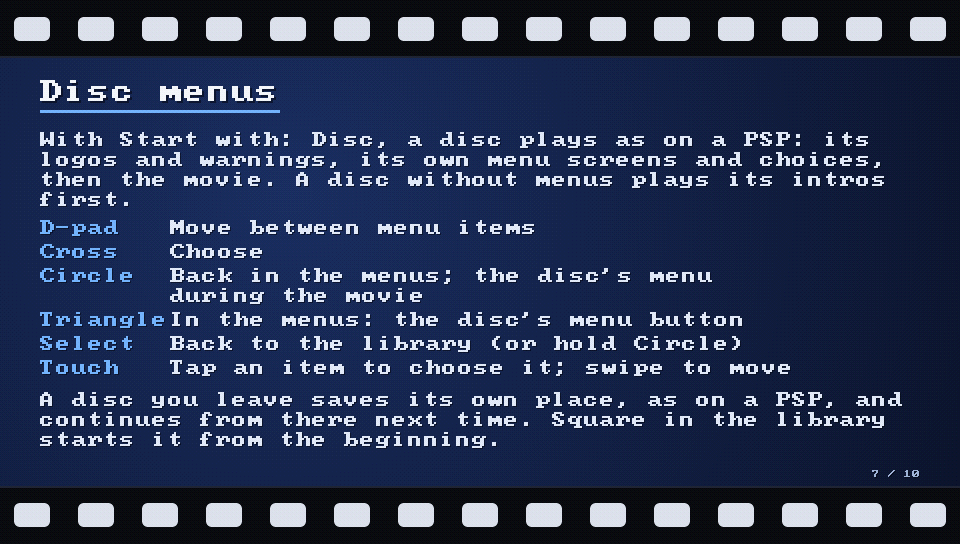
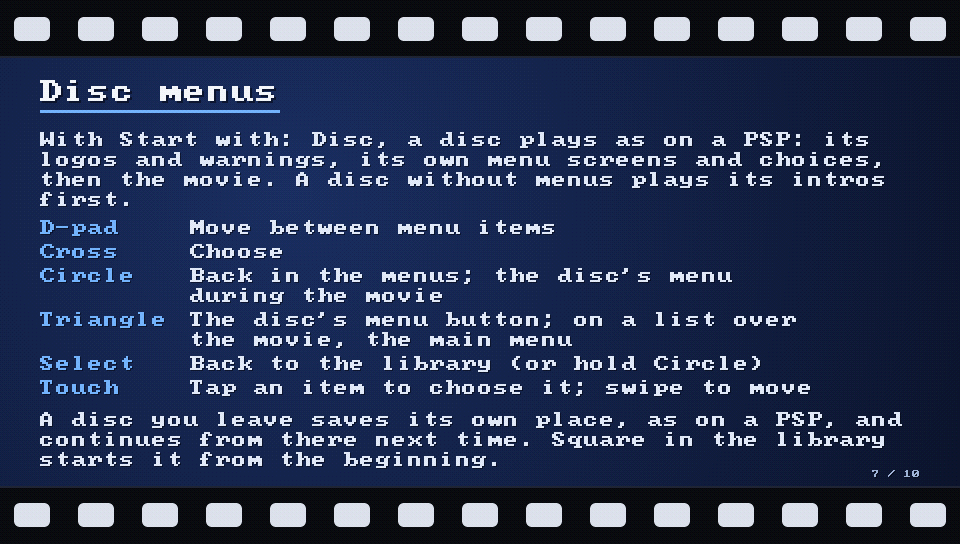
Disc menus: show the menu button over lists that cover the movie
Saw's scene list over the movie hides on Circle and leaves for the main
menu only by the PSP's menu button, which is Triangle while a disc page has
focus. Nothing said so, and Circle alone toggles the list for ever. While
a page takes the buttons over the movie, the disc layer now carries a
"Triangle Disc menu" hint in the corner. The manual and the Vita manual
say the same.

Changed region(s): [[0.0312, 0.4062, 0.9375, 0.875]]

diff --git a/src/app/disc.c b/src/app/disc.c
@@ -7,6 +7,7 @@
 #include "../core/canvas.h"
 #include "../core/iso9660.h"
 #include "../platform/platform.h"
+#include "osd.h"
 #include "menu.h"
 #include "player.h"
 #include "resume.h"
@@ -37,6 +38,7 @@ struct disc {
     canvas layer;
     uint32_t layer_id;
     int layer_shown;          /* the menus have something on screen */
+    int hint_shown;           /* the layer carries the "△ Disc menu" hint */
     uint32_t presented;       /* layer_id last presented without a player */
     uint64_t circle_since;
     int menus_ended;          /* controller.end: the disc finished, nothing to continue */
@@ -349,10 +351,21 @@ int disc_update(disc *d, uint32_t pressed)
     }
     /* The menu layer before the player draws, so a frame never shows with the last frame's
        layer (it decides between Fit and the user's screen mode). */
-    if (menu_dirty(d->m)) {
-        menu_draw(d->m, &d->layer);
-        d->layer_shown = layer_has_pixels(&d->layer);
-        d->layer_id++;
+    {
+        /* A page that takes the buttons over the movie (Saw's scene list): its Back may only
+           hide it, and the way on is the PSP's menu button, so say which button that is. */
+        int hint = d->pl && !d->menu_video && !player_title_ended(d->pl) && menu_has_focus(d->m);
+        if (menu_dirty(d->m) || hint != d->hint_shown) {
+            menu_draw(d->m, &d->layer);
+            d->layer_shown = layer_has_pixels(&d->layer);
+            if (hint) {
+                canvas_rect(&d->layer, 16, LAYER_H - 48, 150, 32, RGBA(10, 14, 28, 190));
+                osd_draw_hint(&d->layer, 24, LAYER_H - 40, ICON_BUTTON_TRIANGLE, "Disc menu");
+                d->layer_shown = 1;
+            }
+            d->hint_shown = hint;
+            d->layer_id++;
+        }
     }
     if (d->pl)
         player_set_layer(d->pl, d->layer_shown ? d->layer.rgba : NULL, d->layer.w, d->layer.h, d->layer.stride,

diff --git a/tools/make_manual.py b/tools/make_manual.py
@@ -199,9 +199,9 @@ def main():
            'screens and choices, then the movie. A disc without menus plays its intros first.')
     p.rows([('D-pad', 'Move between menu items'), ('Cross', 'Choose'),
             ('Circle', 'Back in the menus; the disc\'s menu during the movie'),
-            ('Triangle', 'In the menus: the disc\'s menu button'),
+            ('Triangle', 'The disc\'s menu button; on a list over the movie, the main menu'),
             ('Select', 'Back to the library (or hold Circle)'),
-            ('Touch', 'Tap an item to choose it; swipe to move')], key_w=130)
+            ('Touch', 'Tap an item to choose it; swipe to move')], key_w=150)
     p.y += 8
     p.para('A disc you leave saves its own place, as on a PSP, and continues from there next time. '
            'Square in the library starts it from the beginning.')

diff --git a/docs/manual.md b/docs/manual.md
@@ -107,6 +107,8 @@ With "Start with: Disc", UMD Player runs the disc's own menus: the menu screens,
 
 Some discs move their highlight themselves and have no items to tap. On those, swipe to the item, then tap anywhere to choose it.
 
+Some discs show a list over the movie, such as Saw's scene list, where ○ only hides the list. The corner then shows "△ Disc menu": △ leaves the movie for the disc's main menu.
+
 Holding ○ for 1.5 seconds also goes back to the library.
 
 When you leave a disc, it saves its own place, as on a PSP. The next time, the disc continues from there. Some discs ask first. In the library, the Select panel says "Continue where you left off", and □ starts the disc from the beginning instead.

diff --git a/CHANGELOG.md b/CHANGELOG.md
@@ -2,6 +2,7 @@
 
 ## Unreleased
 
+- Disc menus: a list shown over the movie (Saw's scene list) shows "△ Disc menu" in the corner. On such lists ○ only hides the list, and △, the PSP's menu button, is the way back to the main menu.
 - Disc menus receive the discs' event marks (movieplayer.onMark). Doom's menus waited for one after a blank opening clip and never appeared; they now show the warnings, then the main menu. Event marks no longer count as chapters, so movies such as Cabin Fever, Doom and 2 Fast 2 Furious lose a duplicate last chapter.
 
 ## v0.6.1 (2026-10-16)
